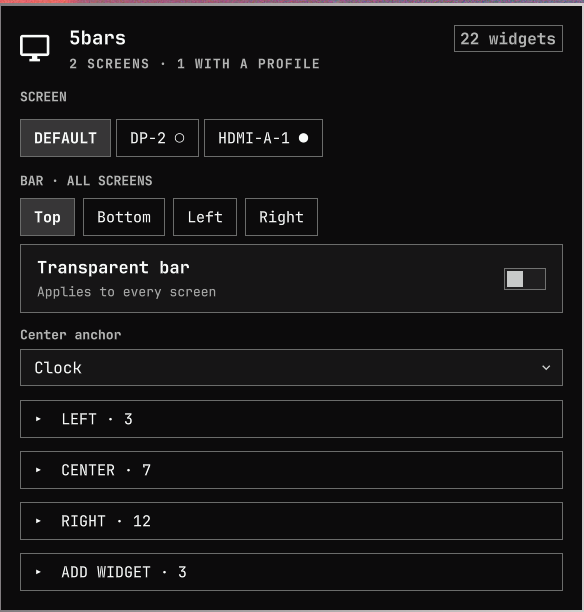
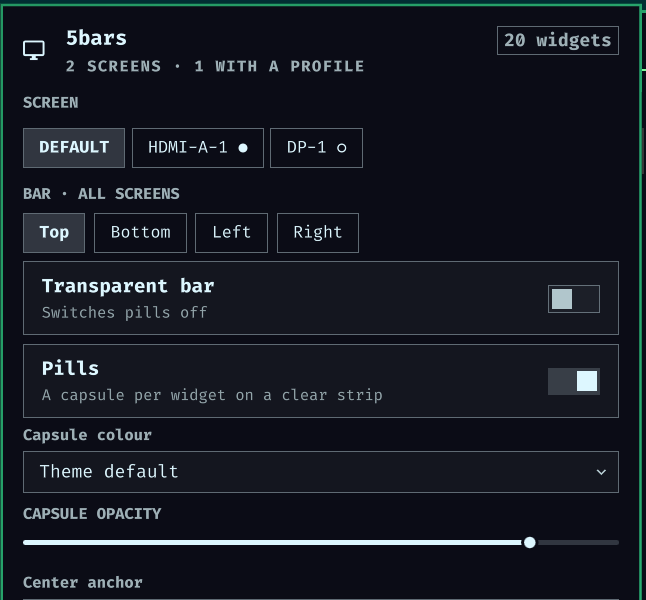
✨ feat: the panel sets the capsule colour, and the plugin declares what it reaches for
Colour was theme-only, which for a plugin other people install means: no UI, no
CLI, and a file the install instructions never mention. shell.json now carries
the same four keys — `pillColor`, `pillOpacity`, `pillBorderColor`,
`pillBorderOpacity` — and they win over the theme's.

That is the cascade the shell itself runs on (a theme's shell.toml sets the
look, the user's file wins), and it is the half a bar plugin can actually
write: config is reached through `mutateShellConfig`, which is shell.json only.
Specificity still comes first and source second, so a group's own token beats
the generic one either way. The panel gets the two that matter under the Pills
toggle: a colour built from the shades this theme actually ships — read off the
palette, so the list is never offering something that would not resolve — and
an opacity slider that writes on release rather than on every frame of a drag.

The rest is what shipping this to other machines needs:

- `pillThemingAvailable` guards the Color and Util calls the anchors cannot
  cover, so a release that takes one away leaves capsules at the bar background
  and 0.85 instead of a binding error. UPSTREAM.md now tables that surface
  along with the palette file, the Color signals and the widget mask.
- The panel screenshot in the README was from before any of this existed.
- The marketplace notes say what changed, and that it is off by default.

Changed region(s): [[0.0, 0.0, 1.0, 1.0]]

diff --git a/Studio.qml b/Studio.qml
@@ -667,6 +667,52 @@ Panel {
     })
   }
 
+  // "" clears the key and hands the capsule back to the theme.
+  function setPillColor(token) {
+    mutate(function(config) {
+      ensureBarShape(config)
+      if (String(token) === "") delete config.bar.pillColor
+      else config.bar.pillColor = String(token)
+    })
+  }
+
+  function setPillOpacity(value) {
+    mutate(function(config) {
+      ensureBarShape(config)
+      config.bar.pillOpacity = Math.round(Math.min(1, Math.max(0, value)) * 100) / 100
+    })
+  }
+
+  // What the colour dropdown offers: the shades a capsule is plausibly drawn
+  // in, minus the ones this theme does not ship. Roles always resolve; the
+  // rest come from the theme's own palette, which the bar reads for exactly
+  // this reason. Anything outside the list -- another token, a hex -- still
+  // works, it is just written by hand, and shows up here as its own entry so
+  // choosing something else does not silently discard it.
+  readonly property var pillColorChoices: {
+    var palette = bar && bar.themePalette ? bar.themePalette : ({})
+    var out = [{ value: "", label: "Theme default" }]
+    var known = [
+      { value: "lighter_background", label: "Lighter background" },
+      { value: "dark_background", label: "Dark background" },
+      { value: "selection", label: "Selection" },
+      { value: "background", label: "Background", role: true },
+      { value: "muted", label: "Muted", role: true },
+      { value: "accent", label: "Accent", role: true },
+      { value: "urgent", label: "Urgent", role: true },
+      { value: "foreground", label: "Foreground", role: true }
+    ]
+    for (var i = 0; i < known.length; i++)
+      if (known[i].role === true || palette[known[i].value] !== undefined) out.push(known[i])
+    var current = String(barConfig.pillColor || "")
+    if (current !== "") {
+      var listed = false
+      for (var j = 0; j < out.length; j++) if (out[j].value === current) listed = true
+      if (!listed) out.push({ value: current, label: current })
+    }
+    return out
+  }
+
   // Reorders go through the bar so the panel and a drag gesture stay one code
   // path. screenName is what routes the write to the right profile.
   function moveTo(id, fromSection, toSection, beforeId, screen) {
@@ -896,6 +942,45 @@ Panel {
             foreground: root.foreground
             fontFamily: root.fontFamily
             onClicked: root.setPills(!(root.barConfig.pills === true))
+          }
+
+          // Only while pills are on: the controls would otherwise change
+          // something nothing is drawing.
+          Dropdown {
+            width: parent.width
+            visible: root.barConfig.pills === true
+            label: "Capsule colour"
+            options: root.pillColorChoices
+            value: String(root.barConfig.pillColor || "")
+            foreground: root.foreground
+            fontFamily: root.fontFamily
+            onChanged: function(v) { root.setPillColor(v) }
+          }
+
+          Column {
+            width: parent.width
+            visible: root.barConfig.pills === true
+            spacing: Style.space(2)
+
+            PanelSectionHeader {
+              width: parent.width
+              text: "CAPSULE OPACITY"
+              foreground: root.foreground
+              fontFamily: root.fontFamily
+            }
+
+            PanelSlider {
+              width: parent.width
+              bar: root.bar
+              minimum: 0
+              maximum: 1
+              step: 0.05
+              value: root.barConfig.pillOpacity === undefined ? 0.85 : Number(root.barConfig.pillOpacity)
+              // On release, not on every move: each write is a shell.json
+              // round trip through the host, and a drag would spend the whole
+              // gesture rewriting the file.
+              onReleased: function(v) { root.setPillOpacity(v) }
+            }
           }
         }
 

diff --git a/README.md b/README.md
@@ -117,18 +117,34 @@ theme for this to be useful:
 usually what a capsule wants: distinct from the strip, and still the theme's.
 It follows a theme switch like everything else here.
 
-A theme that ships these swaps them with itself. A machine that wants one
-colour whatever the theme is — a dark capsule that stays readable over a pale
-wallpaper — puts them in `~/.config/omarchy/shell.toml`, where user keys win
-and survive a theme switch.
-
-A named group can carry its own pair, under its own name, falling back to the
-generic one for anything it leaves out:
+A theme that ships these swaps them with itself, and a named group can carry
+its own pair under its own name, falling back to the generic one for anything
+it leaves out:
 
 ```toml
 pill-sys       = "#1b2530"
 pill-sys-alpha = 0.95
 ```
+
+The same four live in `shell.json` too, as `pillColor`, `pillOpacity`,
+`pillBorderColor` and `pillBorderOpacity`, and they win — the theme sets the
+look, you override it. That is the cascade the shell already runs on, and it is
+the half the panel can write: a bar plugin reaches config through
+`mutateShellConfig`, which is `shell.json` only.
+
+```
+shell.toml   [bar] pill = "lighter_background"      the theme's
+     ↓
+shell.json   "bar": { "pillColor": "accent" }       yours, and the panel's
+```
+
+Specificity comes first, source second — a group's own token beats the generic
+one either way — so a group's colour is a theme-level decision, which is also
+all the panel could express.
+
+The panel has the two that matter, under the Pills toggle: a colour built from
+the shades this theme actually ships, and an opacity slider. Picking **Theme
+default** clears the key and hands the capsule back to the theme.
 
 ### Grouping
 
@@ -181,8 +197,8 @@ carries what belongs to that screen.
 
 | Default | A screen with its own profile |
 |---|---|
-| <img src="assets/panel-default.png" alt="The default tab: bar position and transparency" width="330"> | <img src="assets/panel-screen.png" alt="A screen tab: the profile opt-in and this screen's bar toggle" width="330"> |
-| Position, **Transparent bar** and **Pills** live here, because they apply to every screen. | **Own profile** seeds a copy of the default; **Show the bar here** removes this screen's bar and gives its space back. |
+| <img src="assets/panel-default.png" alt="The default tab: bar position, transparency, and the pills controls" width="330"> | <img src="assets/panel-screen.png" alt="A screen tab: the profile opt-in and this screen's bar toggle" width="330"> |
+| Position, **Transparent bar** and **Pills** live here, because they apply to every screen — and with pills on, the capsule's colour and opacity too. | **Own profile** seeds a copy of the default; **Show the bar here** removes this screen's bar and gives its space back. |
 
 It sits in the bar as a single icon:
 

diff --git a/UPSTREAM.md b/UPSTREAM.md
@@ -44,6 +44,16 @@ silently, which is exactly how 4.0.3 broke:
 - `pluginRegistryFor()` scopes a plugin's registry view to its own manifest,
   so the panel enumerates bar widgets from `bar.barWidgetRegistry` instead.
 
+Pills widened that surface, so the same paragraph now covers more:
+
+| Reached for | If it goes away |
+|---|---|
+| `Color.pick`, `Color.pickAlpha`, `Color.flatColor`, `Util.alpha` | checked at runtime (`pillThemingAvailable`); capsules fall back to the bar background at 0.85, which is what they were before colour was configurable |
+| `~/.local/state/omarchy/current/theme/colors.toml` | read directly for the theme's full palette; absent or unreadable leaves the palette empty and tokens resolve through `Color` alone |
+| `Color.backgroundChanged` / `accentChanged` | `ignoreUnknownSignals`; costs the theme-switch refresh of the palette, not the bar |
+| `shell.mutateShellConfig` | already load-bearing for the panel; `healRegistry()` also uses it as a no-op write to force the host to re-hand its facades |
+| a bar widget's `containmentMask` | how a capsule learns what the widget actually paints; a widget without one fills its slot, which is the old behaviour |
+
 Checking a new release therefore means running the checker **and** confirming
 `shell.qml`'s `configureBar` still hands over what the wrapper expects. The
 `5bars` IPC target reports the injected shell's kind for exactly this reason:
